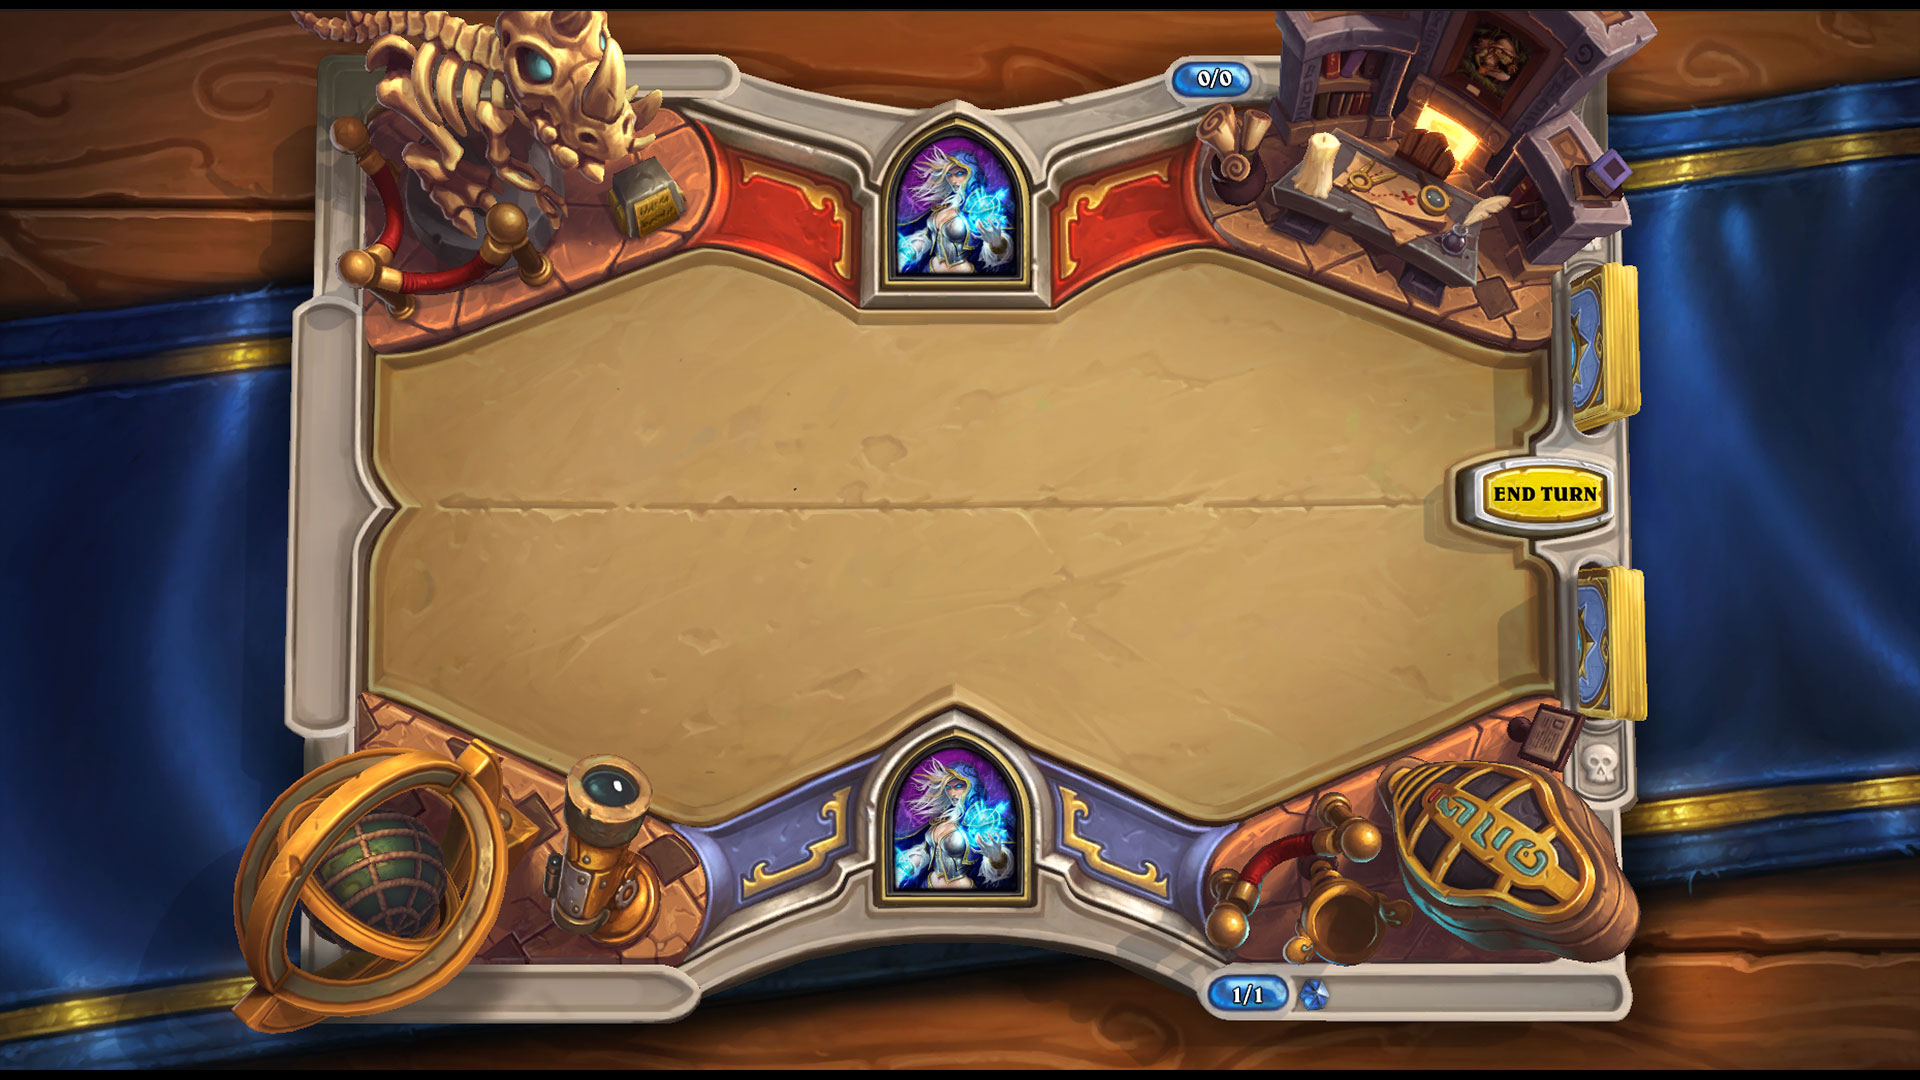
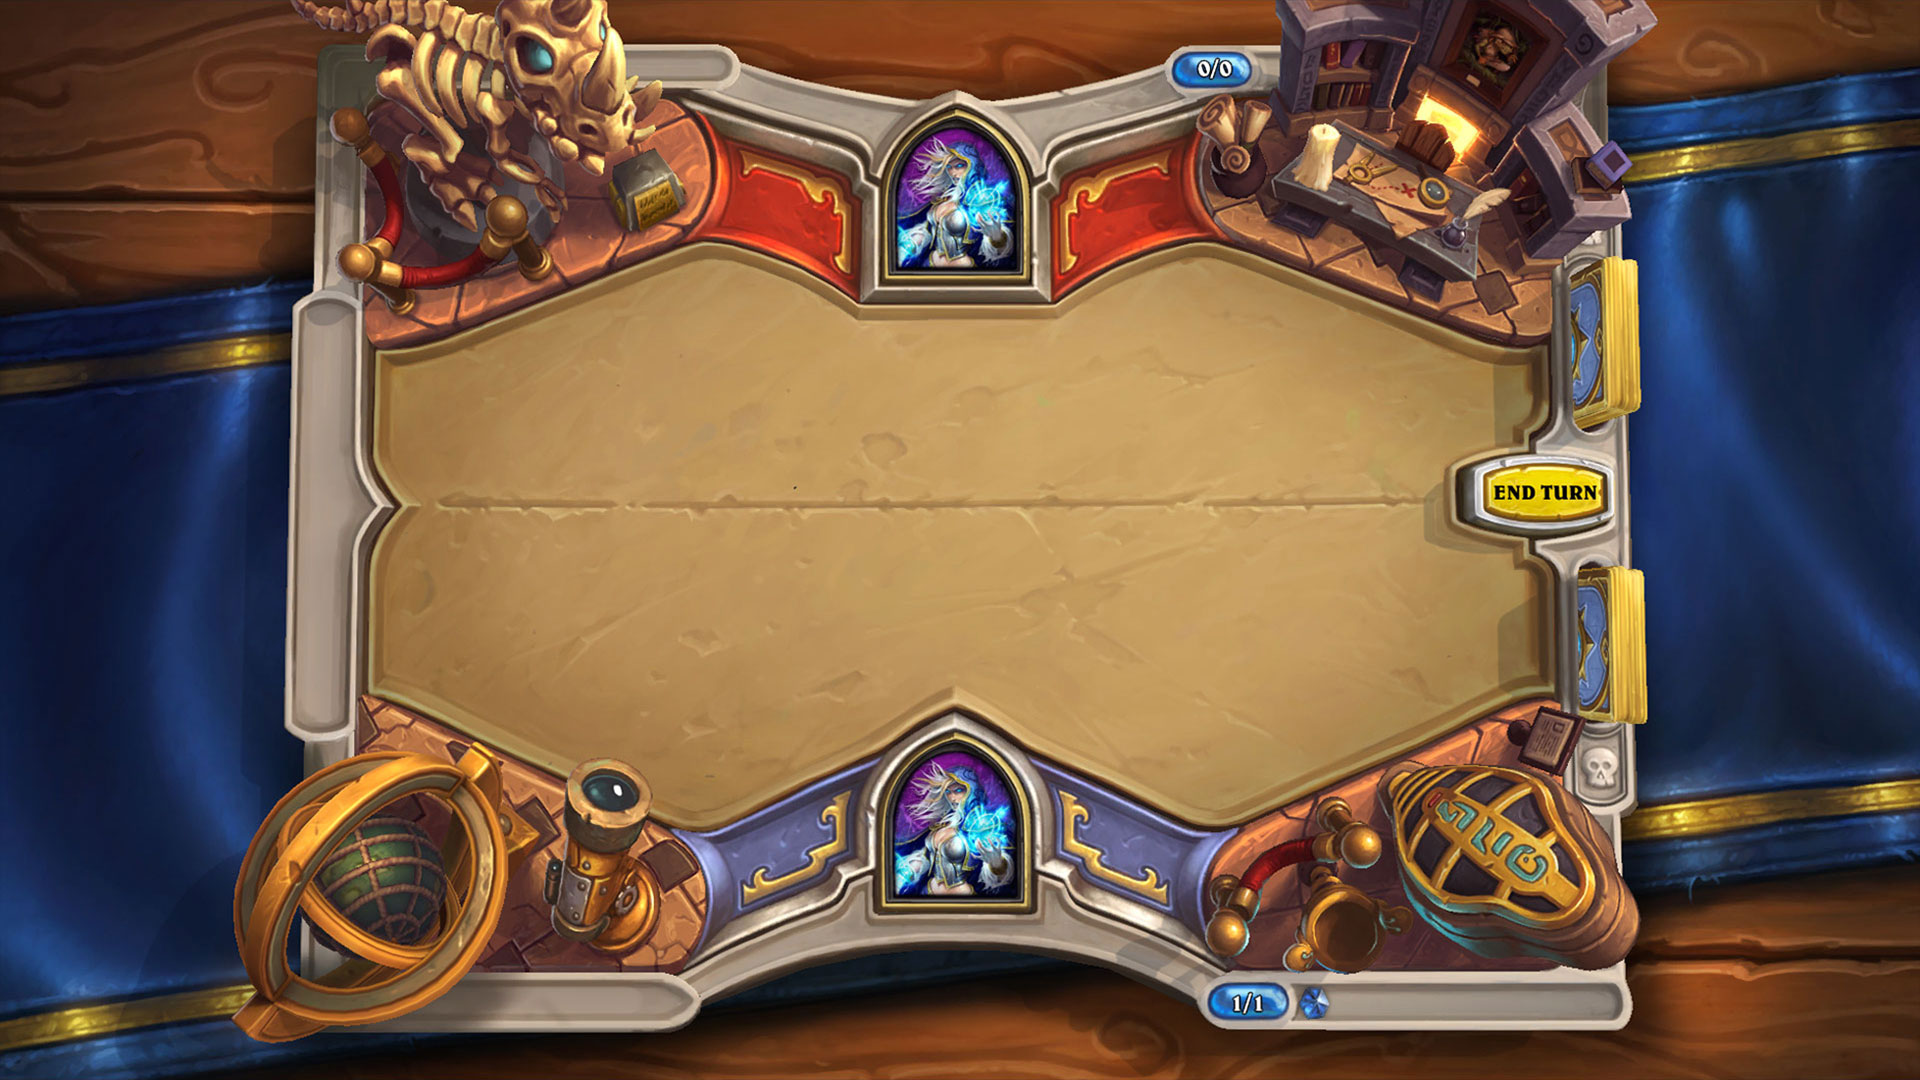
mobile friendly

diff --git a/index.html b/index.html
@@ -9,41 +9,46 @@
   <script src="https://code.jquery.com/ui/1.12.0/jquery-ui.js"></script>
   <script src="https://cdnjs.cloudflare.com/ajax/libs/jqueryui-touch-punch/0.2.3/jquery.ui.touch-punch.min.js"></script>
   <style>
-    .glow {
-      box-shadow: lime 0px 0px 40px 15px;
+    img {
+      user-drag: none;
+      user-select: none;
+      -moz-user-select: none;
+      -webkit-user-drag: none;
+      -webkit-user-select: none;
+      -ms-user-select: none;
     }
   </style>
 </head>
 
-<body style="margin: 0px;">
-  <div id="board" style="background: url('board.jpg'); background-size: contain; background-position: top center; background-repeat: no-repeat; height: 720px; width: 1280px;">
-    <div class="card glow" style="height: 230px; width: 155px; left: 550px; top: 470px; position: absolute;">
-      <img src="coin.png" style="height: 250px; left: -19px;top: -16px; position: absolute;">
-    </div>
-    <img src="dmg.png" class="dmg" style="display: none; left: 585px; position: absolute;">
-    <img src="victory.png" class="win" style="display: none; height: 500px; left: 350px; top: 120px; position: absolute;">
-    <img src="defeat.png" class="lose" style="display: none; height: 500px; left: 350px; top: 120px; position: absolute;">
+<body style="margin: 0px; background: black; overflow: hidden;">
+  <div id="board" style="margin: 0 auto 0 auto;">
+    <img src="board.jpg" style="width: 100vw;">
+    <img src="coin-g.png" class="card" style="position: fixed; top: 38vw; left: 44vw; width: 12vw; opacity: 0;">
+    <img src="dmg.png" class="dmg" style="display: none; position: fixed; left: 44vw; width: 11vw;">
+    <img src="victory.png" class="win" style="display:none; width: 47vw; left: 27vw; top: 7vw; position: fixed;">
+    <img src="defeat.png" class="lose" style="display:none; width: 47vw; left: 27vw; top: 9vw; position: fixed;">
   </div>
   <script>
+    setTimeout(draw, 400);
     $(".card").draggable({
       containment: "parent",
       stop: function() {
-        if ($(".card").position().top < 350) {
-          $(".card").removeClass("glow").fadeOut();
-          $(".card img").animate({
-            height: 300,
-            left: $(".card img").position().left - 20,
-            top: $(".card img").position().top - 20
+        if ($(".card").position().top < $("#board").height() * 0.4) {
+          $(".card").animate({
+            opacity: 0,
+            width: "15vw",
+            left: $(".card").position().left - document.documentElement.clientWidth * 0.02,
+            top: $(".card").position().top - document.documentElement.clientWidth * 0.02
           }, function() {
             if (Math.random() > 0.5) {
               $(".dmg").css({
-                top: '72px'
+                top: '5vw'
               }).fadeIn().delay(400).fadeOut(400, function() {
                 $(".win").fadeIn();
               });
             } else {
               $(".dmg").css({
-                top: '485px'
+                top: '36vw'
               }).fadeIn().delay(400).fadeOut(400, function() {
                 $(".lose").fadeIn();
               });
@@ -51,26 +56,29 @@
           });
         } else {
           $(".card").animate({
-            left: 550,
-            top: 470
+            left: "44vw",
+            top: "38vw"
           });
         }
       }
     });
     $(".win, .lose").click(function(e) {
       // reset
-      $(e.target).fadeOut(400, function() {
-        $(".card img").css({
-          height: 250,
-          left: -19,
-          top: -16
-        });
-        $(".card").addClass("glow").css({
-          left: 550,
-          top: 470
-        }).fadeIn();
-      });
+      $(e.target).fadeOut(400, draw);
     });
+
+    function draw() {
+      $(".card").css({
+        width: "12vw",
+        left: "70vw",
+        top: "26vw",
+        opacity: 0
+      }).animate({
+        left: "44vw",
+        top: "38vw",
+        opacity: 1
+      });
+    }
   </script>
 </body>
 
